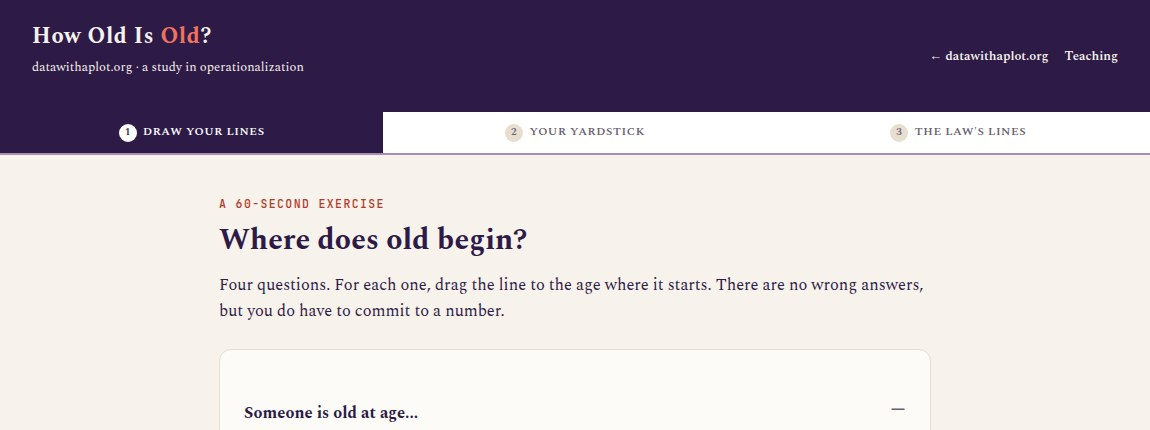
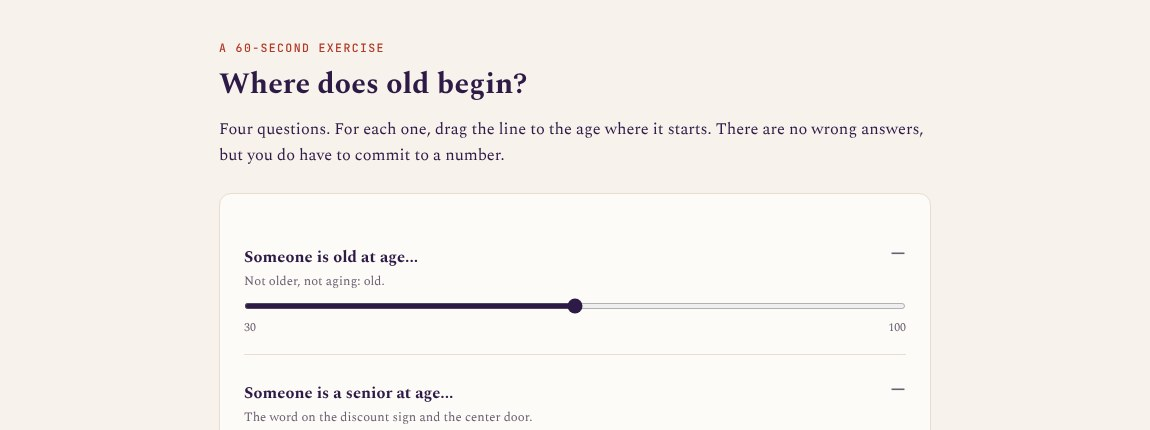
Teaching: light thumbnails for How Old and Trust Your Gut
Each is now a crop of the exercise's opening screen below its progress
strip, matching the STORY cards. The periodic table keeps its dark
header because the tiles are the draw.

Claude-Session: https://claude.ai/code/session_0191t4cG3m6aQycW3EiNAUvs

diff --git a/CLAUDE.md b/CLAUDE.md
@@ -1090,7 +1090,12 @@ that the whole group is imaginary.
   table's own header nav carries Dashboard and Codebook), the subtitle lost
   its planning-tools clause, and the Warm-Ups grid went back to the default
   three-column `.project-grid`, which fits the three remaining exercises on
-  one row (the `--pairs` variant now has no user). Teaching is one section:
+  one row (the `--pairs` variant now has no user). On 2026-10-21 the How Old
+  and Gut thumbnails went light to match the STORY cards (maintainer's call):
+  each is a 1150x430 crop of the exercise's opening screen starting just
+  below the white `#progress` strip (y = 156), so neither the ink header nor
+  the strip's dark active step shows. `thumb-periodic.jpg` keeps its dark
+  header on purpose, because the coloured tiles are the draw. Teaching is one section:
   Warm-Ups (`01 · short exercises`). The notes below describe the page as it
   was before the split and stay as history.
   **Teaching refinement (2026-09-29, every string maintainer-picked):**
